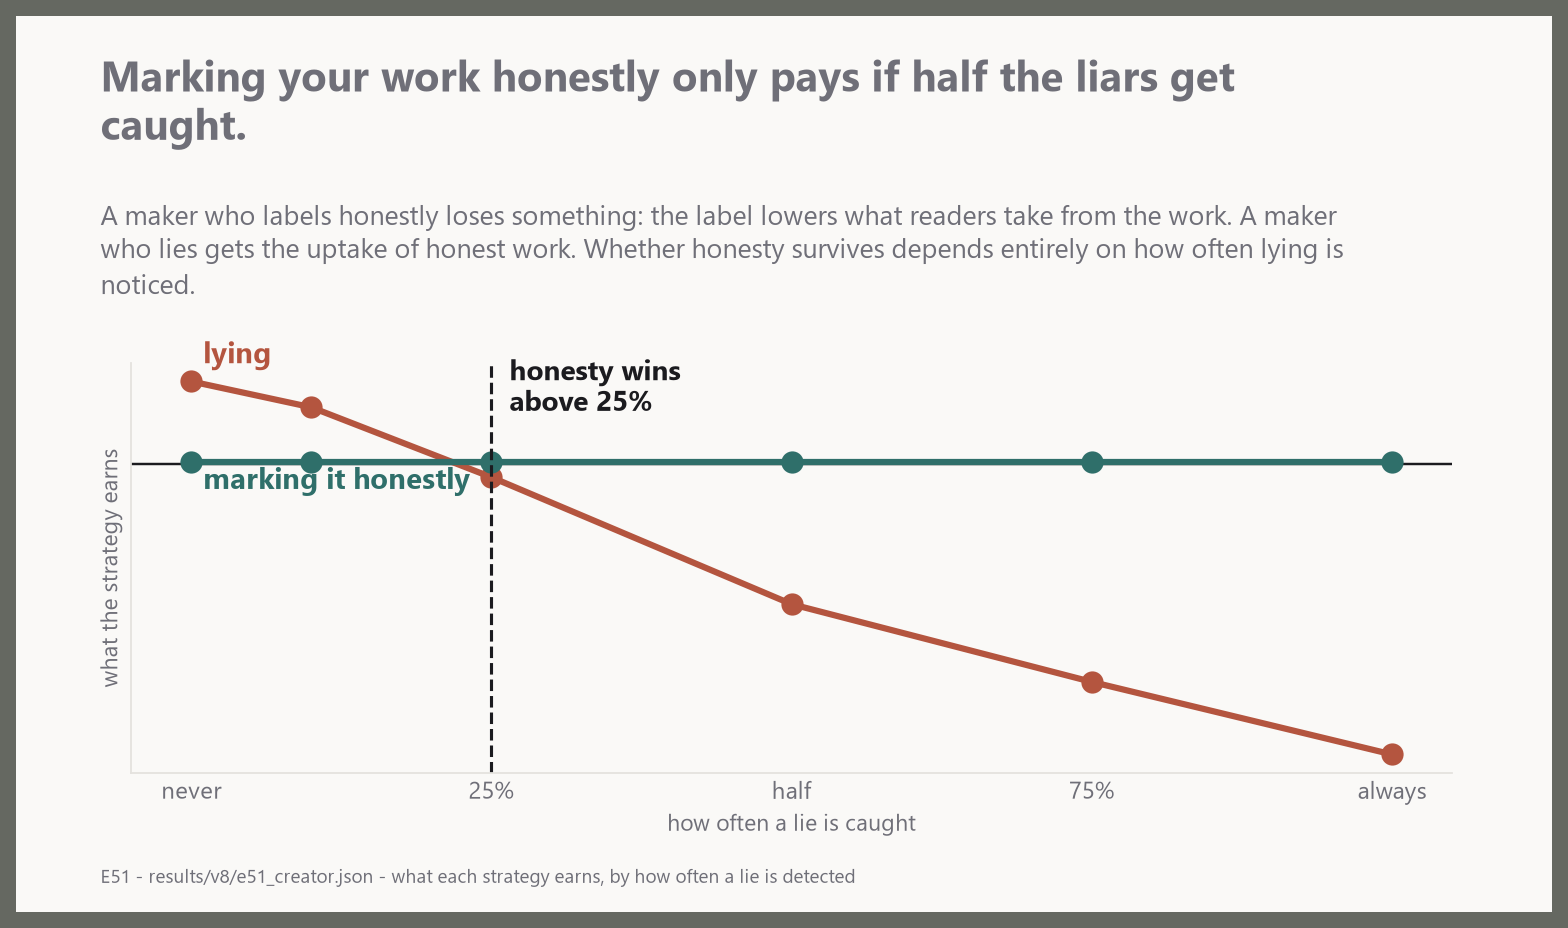
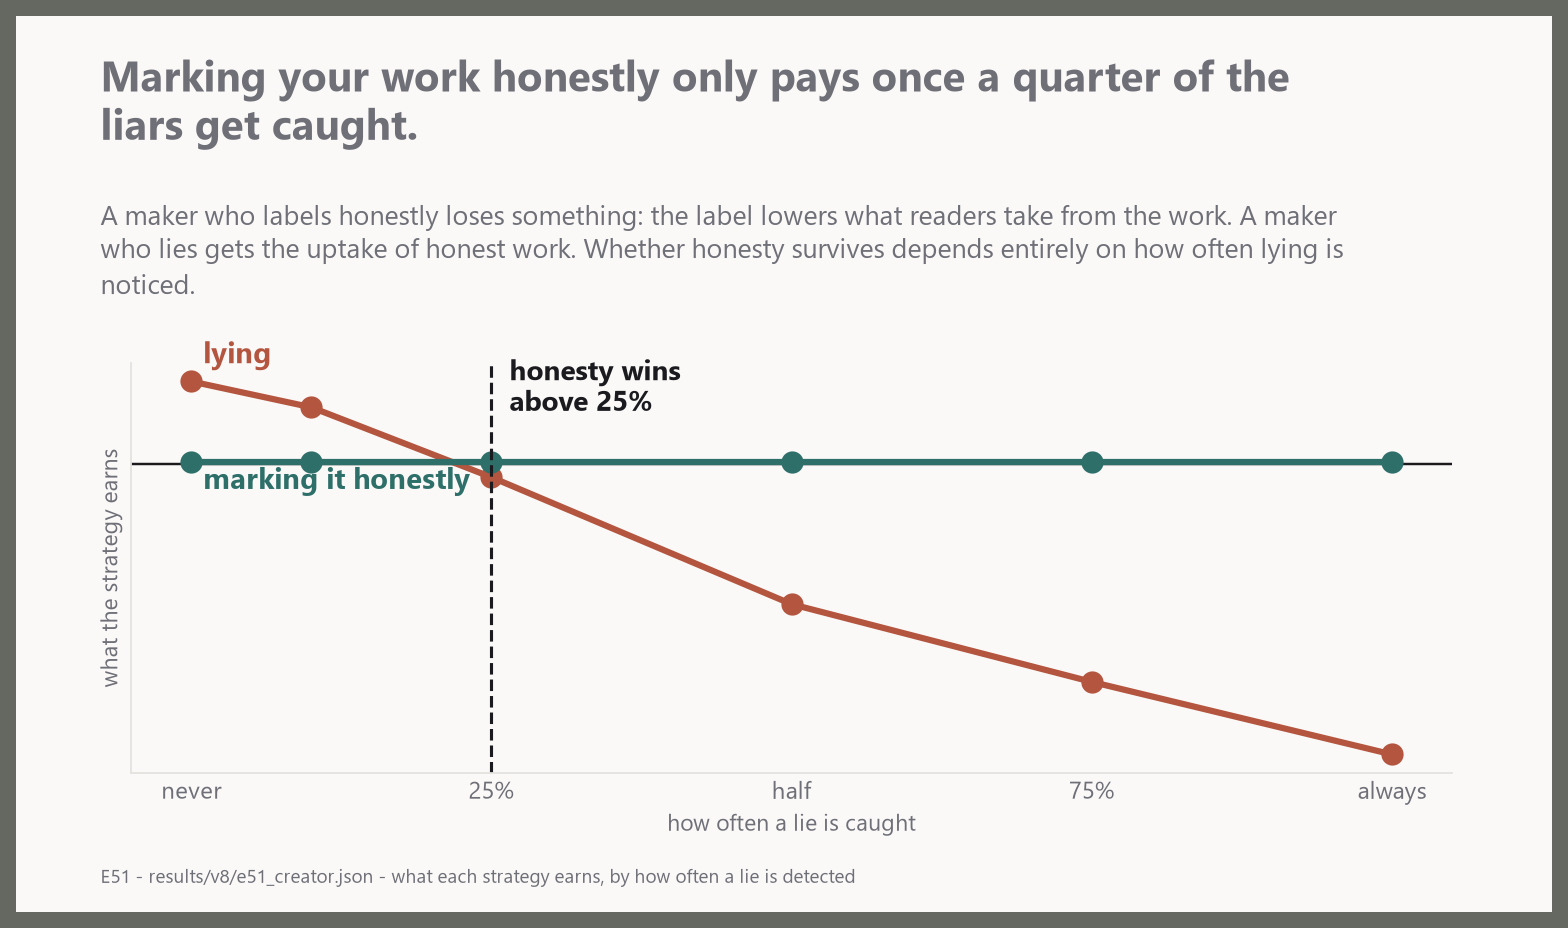
Carousel 3, and the "half the liars" number was wrong in five places
E51's verdict says honesty pays above a detection rate of 0.25 and plate 23's own
dashed line renders "honesty wins above 25%". Its title said half. So did the
walkthrough. The README had hardened it further into "a detection rate of 0.5".
The v8 results page managed both in one sentence. Fixed in all five, including
the generator that would have rewritten it.

Carousel 3 is why disclosure does not save you: 16, 07, 06, 15, 23. It answers
the objection carousels 1 and 2 leave open, and its first two slides are the
project's strongest epistemic moment -- a crossover computed on paper at 0.538,
and a simulation where learning that your source lies collapses from 0.86 to
0.007 across exactly that point.

Carousel 1 corrected to the five that actually posted; the arms-race plate was
an addition that never went out and stays unspent.

Changed region(s): [[0.5625, 0.0625, 0.8438, 0.125], [0.0625, 0.125, 0.2812, 0.1562]]

diff --git a/scripts/make_carousel_pdf.py b/scripts/make_carousel_pdf.py
@@ -20,6 +20,13 @@ PLATES = REPO / "figures" / "walkthrough"
 OUT_DIR = REPO.parent                      # the Ghost Scale Simulation folder, outside the repo
 
 CAROUSELS = {
+    "carousel-3-why-disclosure-does-not-save-you": [
+        "16_two_witnesses",
+        "07_reputation_blindness",
+        "06_honesty_is_not_enough",
+        "15_labels_need_a_convention",
+        "23_honesty_pays_at_a_price",
+    ],
     "carousel-2-the-case-for-intent": [
         "11_the_master_cannot_explain",
         "05_intent_unlocks_the_method",
@@ -27,13 +34,14 @@ CAROUSELS = {
         "24_what_its_made_of",
         "20_rejection_is_not_protection",
     ],
+    # As posted: FIVE. 26_the_arms_race was an addition that never went out and is still
+    # unspent -- it is the natural opener for a later set rather than a sixth slide here.
     "carousel-1-aimed-at-the-wrong-thing": [
         "25_a_defence_that_works",
         "01_false_label_moves_you_wrong",
         "02_invention_peaks_in_the_middle",
         "03_legible_and_empty",
         "22_how_much_is_the_theory",
-        "26_the_arms_race",
     ],
 }
 

diff --git a/scripts/make_walkthrough_plates.py b/scripts/make_walkthrough_plates.py
@@ -1038,7 +1038,7 @@ def plate_23_honesty_pays_at_a_price():
     thr = d.get("detection_rate_where_honesty_pays", {}).get("tight_gate")
 
     fig, ax = plate(
-        "Marking your work honestly only pays if half the liars get caught.",
+        "Marking your work honestly only pays once a quarter of the liars get caught.",
         "A maker who labels honestly loses something: the label lowers what readers take from the "
         "work. A maker who lies gets the uptake of honest work. Whether honesty survives depends "
         "entirely on how often lying is noticed.",

diff --git a/scripts/write_results_v8.py b/scripts/write_results_v8.py
@@ -137,7 +137,8 @@ def main():
     h = e51.get("H8.6", {})
     thr = e51.get("detection_rate_where_honesty_pays", {})
     A(f"**{h.get('outcome')}** — the threshold is a detection rate of "
-      f"**{f(thr.get('tight_gate'), 2)}**. You have to catch half the liars.")
+      f"**{f(thr.get('tight_gate'), 2)}**, at both the tight and the leaky gate. Below it, "
+      "lying out-earns honest marking.")
     A("")
     A(f"A leaky reader does **not** make defection cheaper "
       f"({h.get('a_leaky_reader_makes_defection_cheaper')}), so half of this hypothesis fails.")

diff --git a/README.md b/README.md
@@ -87,7 +87,7 @@ Short rows on purpose. Full provenance for any of them is in [FINDINGS.md](FINDI
 | E40 | What happens when the signal of depth is optimised directly? | **Readers pay more and get less.** Not a crash, not a lie: a reader correctly reading something built to trip its own heuristic. This is the RLHF argument in one line. |
 | E38 | Does understanding the machine protect you? | **Yes, by swapping a skill out.** A machine-tuned reader reads machine work perfectly and loses half its accuracy on human work. A crossover, not an upgrade. |
 | E1 | Do readers abandon work made with no intent behind it? | Yes, from plain cost and benefit, with no built-in dislike of machines. *Holds for intent-empty content; under intent-foreign, the better description, they do the opposite.* An unwelcome rider: the tier meant to say *do not spend effort here* is the one readers spend most on. **The model and the design disagree, and the design is probably right.** |
-| E51 | Is honest marking self-policing? | **Only above a detection rate of 0.5.** You have to catch half the liars. |
+| E51 | Is honest marking self-policing? | **Only above a detection rate of 0.25.** Below that, lying out-earns marking honestly and the scheme eats itself. |
 
 ### Results that came back against the framework
 

diff --git a/docs/versions/v08-the-severity-pass/RESULTS.md b/docs/versions/v08-the-severity-pass/RESULTS.md
@@ -77,7 +77,7 @@ With one engagement decision repeated, this model scores slop and shock art the 
 
 Marking your work honestly costs you: the mark lowers what readers take from it. Lying gets you the uptake of honest work. The proposal's security argument is that being caught costs more than the lie gained, so honesty holds up on its own above some rate of detection. That is a claim about an equilibrium and it needs a maker who can choose.
 
-**HONEST_MARKING_IS_SELF_POLICING_ABOVE_A_DETECTION_RATE** — the threshold is a detection rate of **0.25**. You have to catch half the liars.
+**HONEST_MARKING_IS_SELF_POLICING_ABOVE_A_DETECTION_RATE** — the threshold is a detection rate of **0.25**, at both the tight and the leaky gate. Below it, lying out-earns honest marking.
 
 A leaky reader does **not** make defection cheaper (False), so half of this hypothesis fails.
 

diff --git a/WALKTHROUGH.md b/WALKTHROUGH.md
@@ -474,7 +474,7 @@ readable at every depth, so it could never have moved.
 ![Honesty pays above a detection rate](figures/walkthrough/23_honesty_pays_at_a_price.png)
 
 The proposal's answer to bad actors, simulated for the first time in eight versions. It works — and
-it comes with a condition rather than a reassurance: **you have to catch half the liars.**
+it comes with a condition rather than a reassurance: **you have to catch a quarter of the liars.**
 
 *The framework reaches this through Zahavian signalling, on which honesty is stable because the
 honest signal is wasteful. Signalling theory has since moved to a trade-off account, and a
